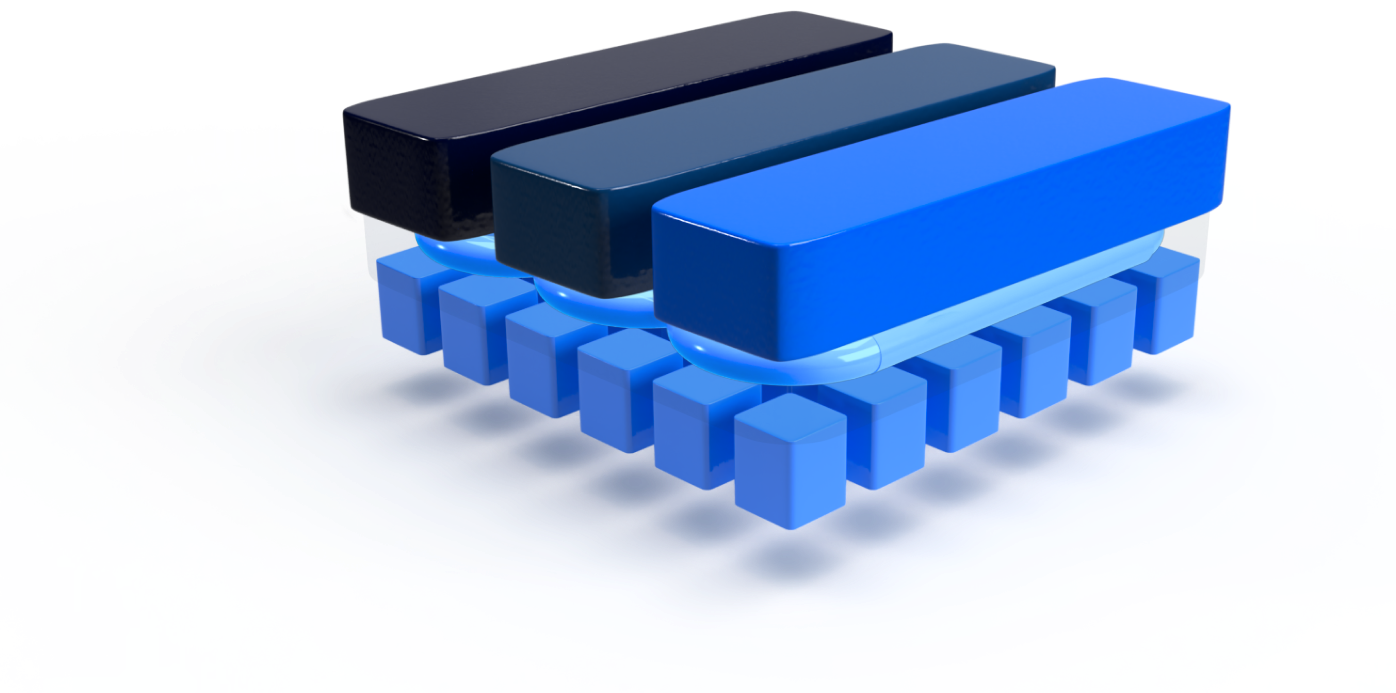
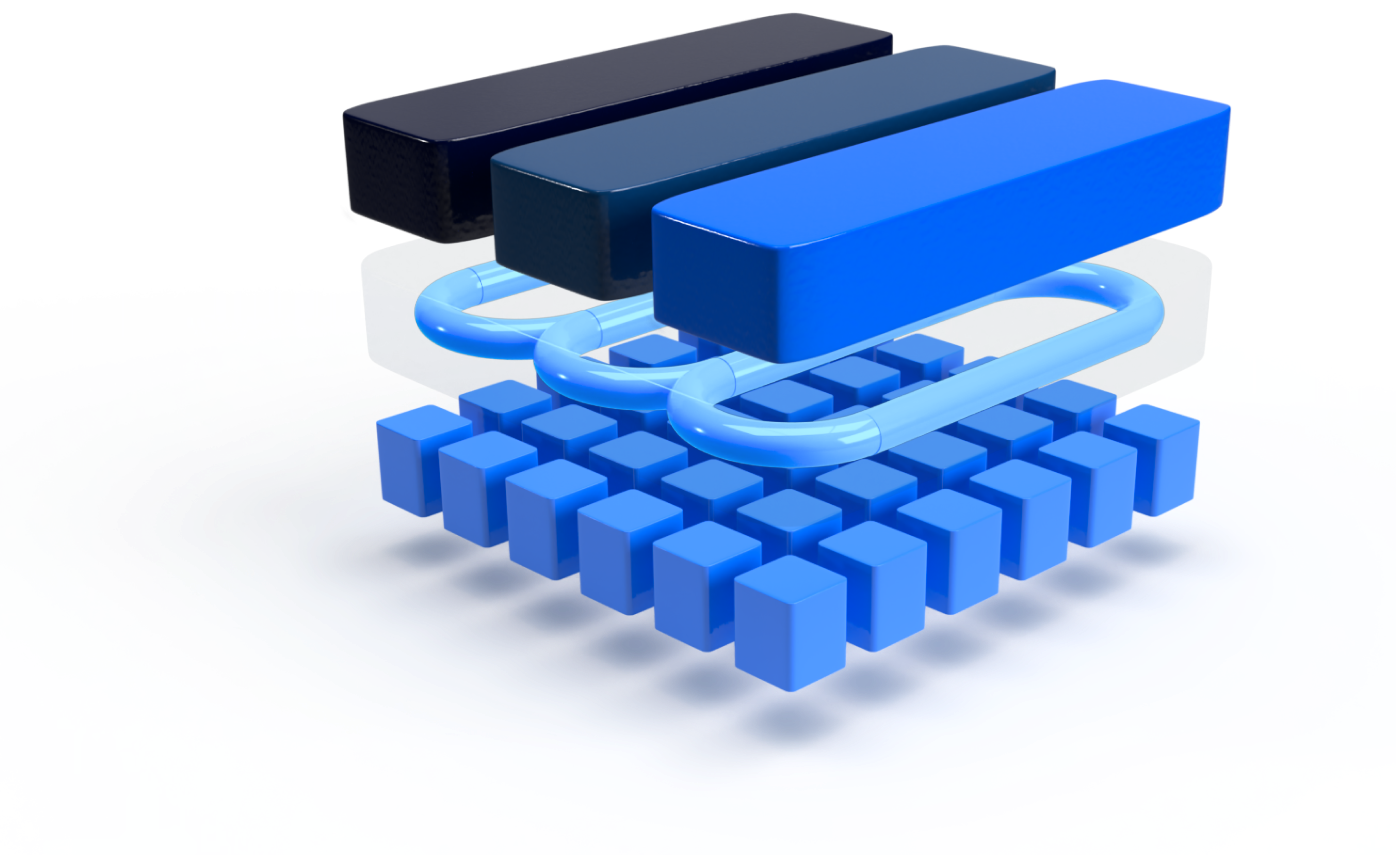
Tighten layer gaps and make CTA a separated stack
Reduce the scroll-section resting gaps a touch more (32/64). Regenerate
the CTA image as the same separated 3-layer stack (grid / slab / bars
with gaps) instead of the merged block, matching the top section.

Changed region(s): [[0.2464, 0.0, 0.8933, 0.8788], [0.5236, 0.0, 0.5544, 0.0303]]

diff --git a/script.js b/script.js
@@ -37,8 +37,8 @@
   var panels = Array.prototype.slice.call(section.querySelectorAll(".lpanel"));
 
   // resting gaps so the three layers stay separated (not merged like a sandwich)
-  var SLAB_REST = -40;   // slab floats above the grid
-  var BARS_REST = -80;   // bars float above the slab
+  var SLAB_REST = -32;   // slab floats above the grid
+  var BARS_REST = -64;   // bars float above the slab
   var desktop = window.matchMedia("(min-width: 981px)");
 
   function clamp(v, a, b) { return Math.max(a, Math.min(b, v)); }